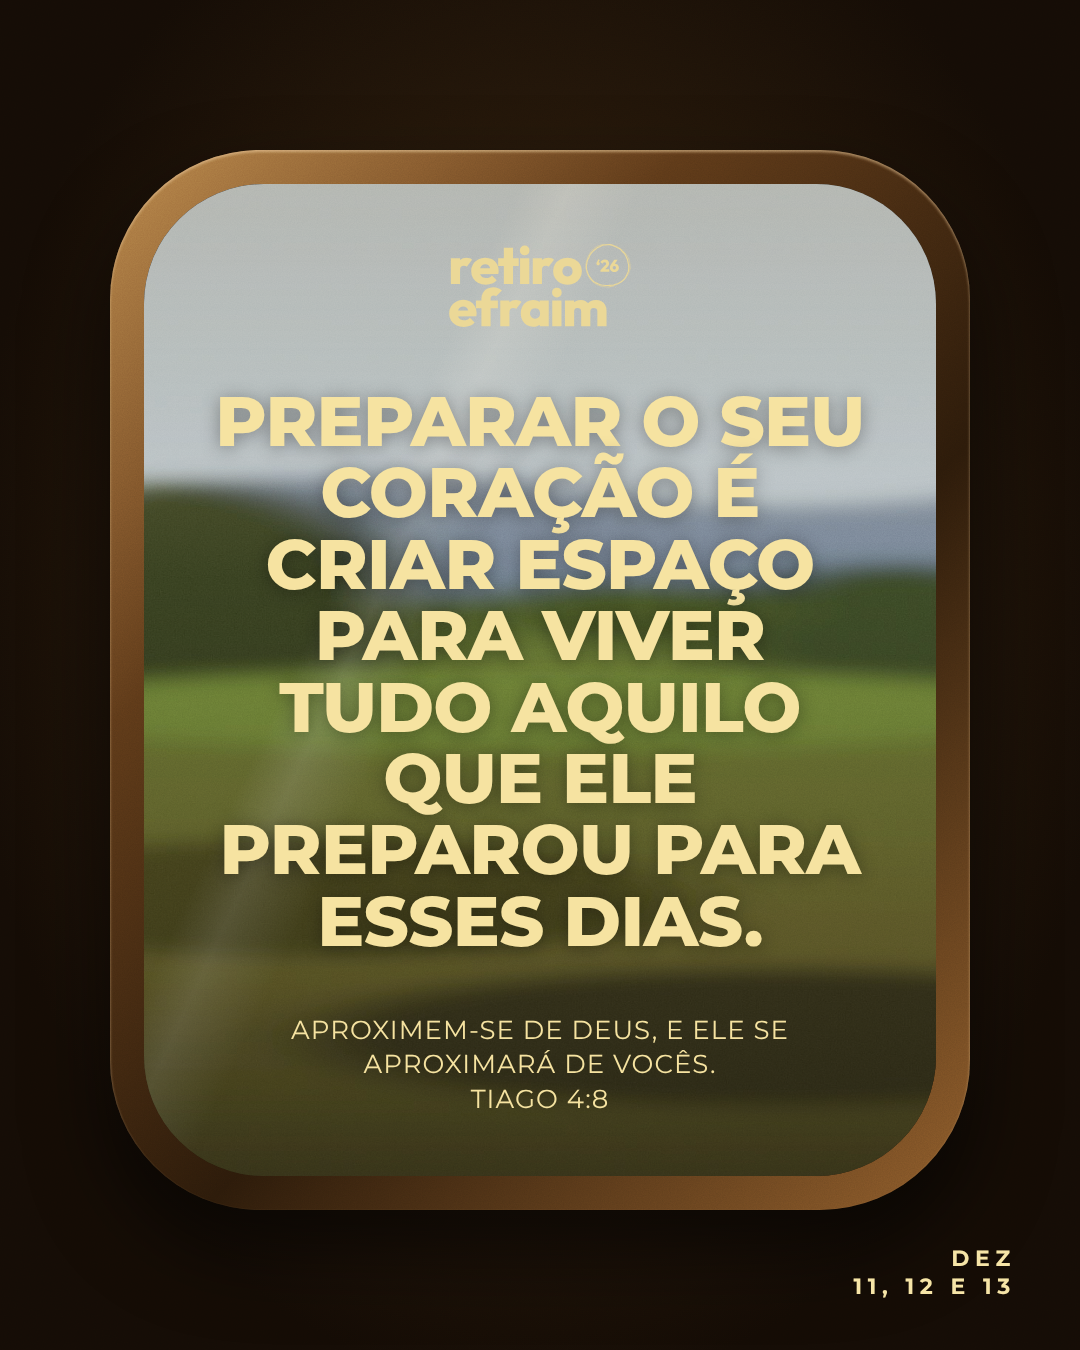
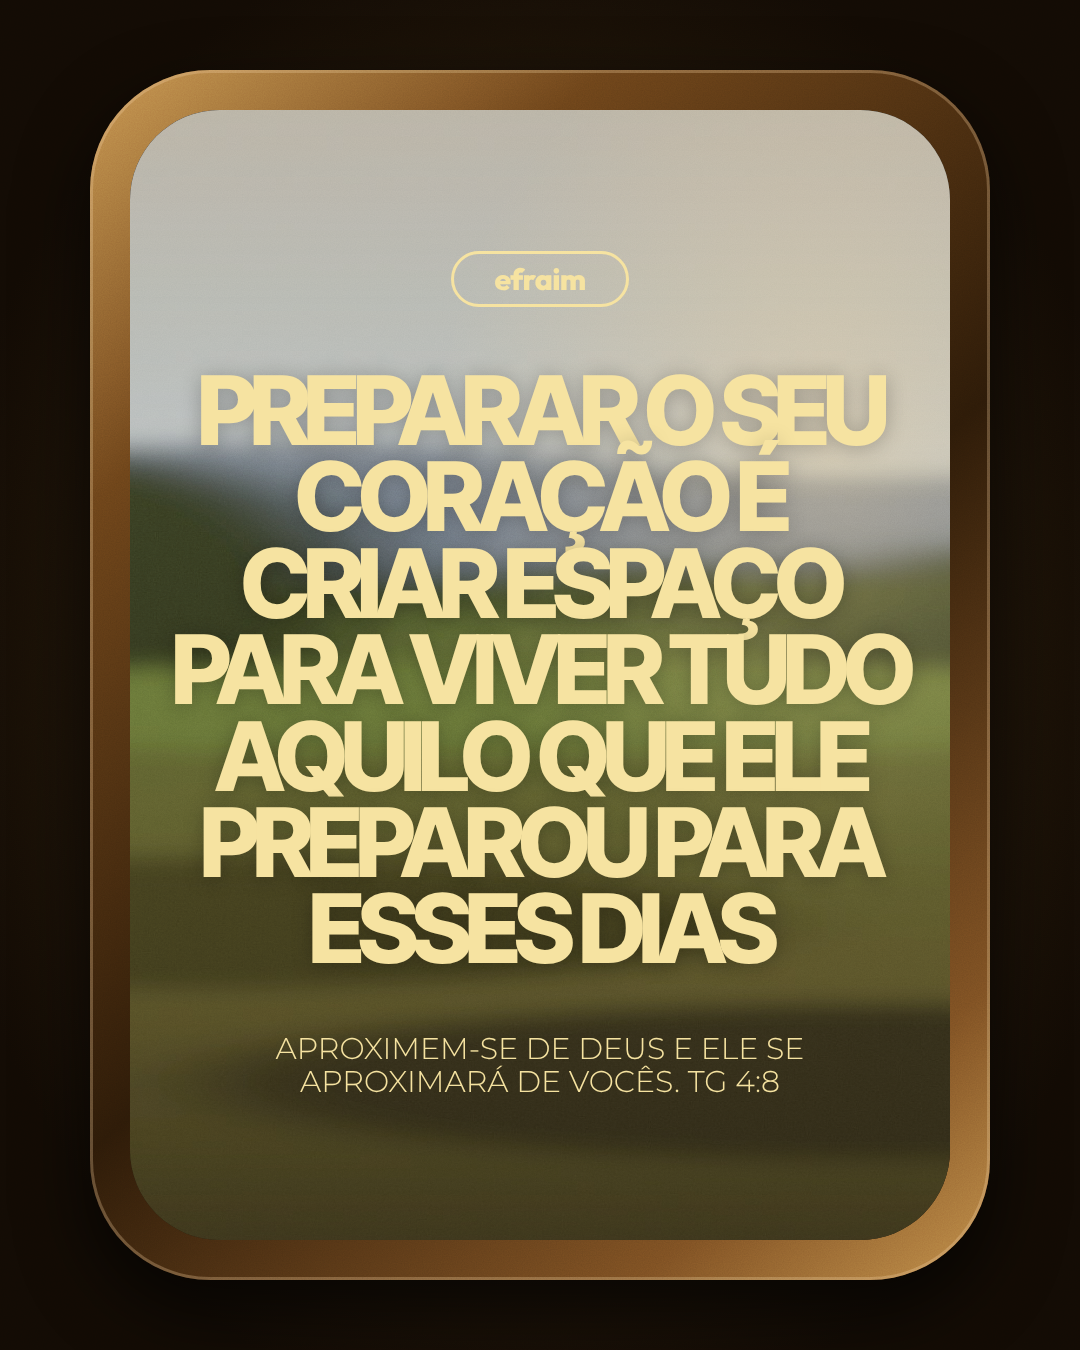
Refaz slides 2-5 do carrossel no estilo da referência com as cores do Efraim
Claude-Session: https://claude.ai/code/session_01LeUD47ZwT7dCEC6s1yGkTC

diff --git a/retiro-efraim/artes/carrossel-faltam-poucos-dias/02-preparar-o-coracao.html b/retiro-efraim/artes/carrossel-faltam-poucos-dias/02-preparar-o-coracao.html
@@ -1,35 +1,50 @@
-<!doctype html><meta charset="utf-8"><link rel="stylesheet" href="carrossel.css">
+<!doctype html><meta charset="utf-8"><link rel="stylesheet" href="estilo-cnct.css">
 <style>
-.cel{position:absolute;left:96px;top:250px;width:440px;height:880px;border-radius:64px;background:#0E140A;box-shadow:0 0 0 10px #2A2E26,0 0 0 12px #55594F,0 40px 70px rgba(0,0,0,.45);transform:rotate(-4deg);color:#EDE6D2;padding:30px 30px}
-.cel .ilha{position:absolute;top:18px;left:50%;width:130px;height:34px;border-radius:20px;background:#000;transform:translateX(-50%)}
-.cel .st{display:flex;justify-content:space-between;font:600 18px var(--f-titulo);padding:8px 14px 0}
-.cel .tit{text-align:center;margin-top:52px;font:500 18px/1.35 var(--f-titulo);color:#A9AE9C}
-.cel .tit b{display:block;color:#EDE6D2;font-weight:700}
-.letra{margin-top:30px;background:var(--folha);border-radius:18px;padding:26px 26px 22px;display:grid;gap:18px;box-shadow:0 10px 20px rgba(0,0,0,.3)}
-.letra .q{font:800 30px/1.18 var(--f-titulo);color:var(--manteiga)}
-.letra small{font:600 15px/1 var(--f-titulo);letter-spacing:.2em;text-transform:uppercase;color:#C9D3A8}
-.barra{margin:40px 8px 0;height:4px;border-radius:2px;background:#3A3F33;position:relative}.barra::before{content:"";position:absolute;inset:0 62% 0 0;background:#EDE6D2;border-radius:2px}.barra::after{content:"";position:absolute;left:38%;top:-5px;width:14px;height:14px;border-radius:50%;background:#EDE6D2}
-.ctrl{display:flex;justify-content:center;align-items:center;gap:46px;margin-top:40px}
-.ctrl svg{fill:#EDE6D2}
+.fundo{position:absolute;inset:0;background:radial-gradient(circle at 72% 30%,#5C8A26 0%,#2F6413 38%,#1D430B 75%,#15320A 100%)}
+.cel{position:absolute;left:82px;top:195px;width:465px;height:990px;border-radius:84px;background:#0B0D09;box-shadow:inset 0 0 0 4px #2B2E28,0 0 0 3px #45483F,0 30px 60px rgba(0,0,0,.45);padding:44px 52px;color:#EEE8D8;font-family:var(--f-titulo)}
+.cel .ilha{position:absolute;top:22px;left:50%;width:200px;height:52px;border-radius:0 0 28px 28px;background:#000;transform:translateX(-50%)}
+.st{display:flex;justify-content:space-between;align-items:center;font:600 22px var(--f-titulo);margin-top:30px}
+.st i{display:inline-block;width:40px;height:18px;border-radius:5px;background:#EEE8D8}
+.topo{text-align:center;margin-top:62px;font:400 20px/1.3 var(--f-titulo);color:#9A9C92}
+.topo b{display:block;font-weight:700;color:#C9C7BC;text-transform:uppercase;font-size:18px;letter-spacing:.06em}
+.capa{margin-top:40px;border-radius:12px;overflow:hidden;position:relative;height:340px;background:#1F360C url(../../fundos/pasto-feed.jpg) center/cover}
+.capa::after{content:"";position:absolute;inset:0;background:linear-gradient(transparent 40%,rgba(0,0,0,.55))}
+.capa img{position:absolute;left:34px;top:40px;width:260px;z-index:1}
+.capa span{position:absolute;left:34px;bottom:30px;z-index:1;font:700 18px/1 var(--f-titulo);letter-spacing:.24em;text-transform:uppercase;color:var(--manteiga)}
+.faixa{margin-top:52px;display:grid;grid-template-columns:30px 1fr 30px;align-items:center;text-align:center}
+.faixa b{font:600 26px/1.2 var(--f-titulo)} .faixa small{display:block;font:400 18px/1.3 var(--f-titulo);color:#9A9C92;text-transform:uppercase}
+.barra{margin-top:38px;height:3px;background:#3A3D35;position:relative}.barra::before{content:"";position:absolute;left:0;top:0;bottom:0;width:38%;background:#EEE8D8}.barra::after{content:"";position:absolute;left:38%;top:-5px;width:13px;height:13px;border-radius:50%;background:#EEE8D8}
+.ctrl{display:flex;justify-content:space-between;align-items:center;margin-top:38px;padding:0 6px}
+.ctrl svg{fill:#EEE8D8;stroke:#EEE8D8}
 </style>
-<div class="arte">
-  <div class="fundo-papel"></div>
-  <div class="canto esq"><img src="../../logo/retiro-efraim-sem-tagline-verde.svg" alt=""></div><div class="canto dir escuro">Dez<br>11, 12 e 13</div>
+<div class="arte grao">
+  <div class="fundo"></div>
+  <div class="cnt" style="left:72px;top:60px">Retiro<br>Efraim</div>
+  <div class="cnt" style="right:72px;top:60px;text-align:right"><b>Dez</b><br><b>11, 12 e 13</b></div>
   <div class="cel">
     <div class="ilha"></div>
-    <div class="st"><span>9:41</span><span>●●● ▮</span></div>
-    <div class="tit">Tocando agora<b>Playlist Retiro Efraim ’26</b></div>
-    <div class="letra"><small>Salmo 23</small><span class="q">O Senhor é o meu pastor; nada me faltará. Ele me faz repousar em pastos verdejantes.</span></div>
+    <div class="st"><span>10:28</span><i></i></div>
+    <div class="topo"><b>Tocando da playlist</b>Retiro Efraim ’26</div>
+    <div class="capa"><img src="../../logo/retiro-efraim-completo-creme.svg" alt=""><span>Playlist</span></div>
+    <div class="faixa"><svg width="26" height="26" viewBox="0 0 24 24" fill="none" stroke="#EEE8D8" stroke-width="2"><path d="M5 12l5 5 9-10"/></svg><div><b>Retiro Efraim ’26</b><small>Casa de Oração Efraim</small></div><span style="font-size:28px;letter-spacing:2px">···</span></div>
     <div class="barra"></div>
     <div class="ctrl">
-      <svg width="34" height="34" viewBox="0 0 24 24"><path d="M6 5h2v14H6zM20 5v14L9 12z"/></svg>
-      <svg width="96" height="96" viewBox="0 0 48 48"><circle cx="24" cy="24" r="22" fill="none" stroke="#EDE6D2" stroke-width="3"/><rect x="17" y="15" width="4.5" height="18" rx="1"/><rect x="26.5" y="15" width="4.5" height="18" rx="1"/></svg>
-      <svg width="34" height="34" viewBox="0 0 24 24"><path d="M16 5h2v14h-2zM4 5v14l11-7z"/></svg>
+      <svg width="34" height="34" viewBox="0 0 24 24" fill="none" stroke-width="2"><path d="M3 7h4l10 10h4M3 17h4l10-10h4M18 4l3 3-3 3M18 14l3 3-3 3"/></svg>
+      <svg width="40" height="40" viewBox="0 0 24 24" stroke="none"><path d="M5 4h2.5v16H5zM20 4v16L8.5 12z"/></svg>
+      <svg width="104" height="104" viewBox="0 0 48 48"><circle cx="24" cy="24" r="22" fill="none" stroke-width="2.6"/><rect x="16.5" y="14" width="5" height="20" rx="1" stroke="none"/><rect x="26.5" y="14" width="5" height="20" rx="1" stroke="none"/></svg>
+      <svg width="40" height="40" viewBox="0 0 24 24" stroke="none"><path d="M16.5 4H19v16h-2.5zM4 4v16l11.5-8z"/></svg>
+      <svg width="34" height="34" viewBox="0 0 24 24" fill="none" stroke-width="2"><path d="M4 11V8a2 2 0 0 1 2-2h13l-3-3M20 13v3a2 2 0 0 1-2 2H5l3 3"/></svg>
     </div>
   </div>
-  <div class="abs" style="left:590px;top:400px;width:430px;display:grid;gap:40px">
-    <p class="h escuro" style="--s:64px">É hora de preparar o coração pra tudo o que vamos viver.</p>
-    <div class="fio"></div>
+  <div class="abs" style="left:600px;top:415px;width:440px;display:grid;gap:44px;justify-items:start">
+    <p class="tt" style="--s:76px">É hora de<br>preparar<br>o coração<br>pra tudo o<br>que vamos<br>viver.</p>
+    <span class="pilula">efraim</span>
   </div>
-  <img class="patch" src="../../elementos/patch-nuvem-2026.svg" alt="" style="width:290px;right:70px;top:1010px;transform:rotate(9deg)">
+  <svg class="abs" style="left:640px;top:1010px;width:470px" viewBox="0 0 440 300">
+    <defs><linearGradient id="fone" x1="0" y1="0" x2="1" y2="1"><stop offset="0" stop-color="#FFFFFF"/><stop offset=".55" stop-color="#E9E8E3"/><stop offset="1" stop-color="#A9AAA3"/></linearGradient>
+    <radialGradient id="cab" cx=".35" cy=".3" r=".8"><stop offset="0" stop-color="#FFFFFF"/><stop offset=".6" stop-color="#ECEBE6"/><stop offset="1" stop-color="#B2B3AC"/></radialGradient>
+    <filter id="sh"><feDropShadow dx="0" dy="14" stdDeviation="12" flood-color="#000" flood-opacity=".35"/></filter></defs>
+    <g filter="url(#sh)" transform="rotate(-24 120 120)"><rect x="96" y="120" width="44" height="210" rx="22" fill="url(#fone)"/><ellipse cx="120" cy="110" rx="62" ry="70" fill="url(#cab)"/><ellipse cx="100" cy="100" rx="14" ry="9" fill="#2A2B27" transform="rotate(-20 100 100)"/></g>
+    <g filter="url(#sh)" transform="rotate(28 360 60)"><rect x="346" y="40" width="40" height="230" rx="20" fill="url(#fone)"/><ellipse cx="366" cy="34" rx="56" ry="62" fill="url(#cab)"/></g>
+  </svg>
 </div>

diff --git a/retiro-efraim/artes/carrossel-faltam-poucos-dias/04-o-que-tem-alimentado.html b/retiro-efraim/artes/carrossel-faltam-poucos-dias/04-o-que-tem-alimentado.html
@@ -1,17 +1,56 @@
-<!doctype html><meta charset="utf-8"><link rel="stylesheet" href="carrossel.css">
-<style>.etq{position:absolute;padding:26px 40px;font:800 50px/1 var(--f-titulo);text-transform:uppercase;box-shadow:0 18px 30px rgba(0,0,0,.35)}</style>
+<!doctype html><meta charset="utf-8"><link rel="stylesheet" href="estilo-cnct.css">
+<style>
+.bokeh{position:absolute;inset:-80px;filter:blur(70px);background:
+ radial-gradient(circle at 15% 10%,#C29B27 0 9%,transparent 18%),radial-gradient(circle at 55% 5%,#F6E3A1 0 7%,transparent 15%),
+ radial-gradient(circle at 85% 18%,#7D9230 0 10%,transparent 20%),radial-gradient(circle at 10% 45%,#8E5A1A 0 12%,transparent 24%),
+ radial-gradient(circle at 25% 85%,#5E7F25 0 12%,transparent 22%),radial-gradient(circle at 45% 92%,#A3BFD9 0 8%,transparent 16%),
+ radial-gradient(circle at 70% 80%,#7D9230 0 10%,transparent 20%),radial-gradient(circle at 95% 70%,#C29B27 0 8%,transparent 16%),
+ linear-gradient(160deg,#4B4A22,#2E3D14 50%,#3D3016)}
+.bal{position:absolute;padding:12px 34px 16px;background:var(--folha);color:#F3E6D0;border-radius:30px;font:400 40px/1.1 var(--f-titulo)}
+.bal{border-bottom-right-radius:6px;min-width:230px}
+.app{position:absolute;top:200px;height:900px;border-radius:44px;overflow:hidden;box-shadow:0 20px 50px rgba(0,0,0,.45)}
+.rot{position:absolute;top:140px;font:400 30px/1 var(--f-titulo);color:#EDE6D2;display:flex;align-items:center;gap:14px}
+.rot i{width:44px;height:44px;border-radius:11px;display:grid;place-items:center;font-style:normal;font-size:22px}
+</style>
 <div class="arte grao">
-  <img class="bg" src="../../fundos/paisagem-feed.jpg" alt="">
-  <div class="canto esq"><img src="../../logo/retiro-efraim-sem-tagline-verde.svg" alt=""></div><div class="canto dir escuro">Dez<br>11, 12 e 13</div>
-  <div class="papel" style="left:80px;top:230px;width:600px;height:930px">
-    <div class="abs" style="left:60px;right:110px;top:90px;display:grid;gap:40px">
-      <p class="h escuro" style="--s:72px">O que tem alimentado o seu coração?</p>
-      <div class="fio"></div>
-      <p class="corpo escuro" style="font-size:28px">Tudo isso também entra no seu coração.<br><br>Escolha com cuidado o que vai ocupar esse espaço.</p>
-    </div>
-    <img class="cordeiro" src="../../elementos/cordeiro-no-papel.png" alt="" style="width:230px;right:60px;bottom:0;-webkit-mask-image:linear-gradient(90deg,transparent,#000 22%,#000 78%,transparent),linear-gradient(transparent,#000 25%);-webkit-mask-composite:source-in">
+  <div class="bokeh"></div>
+  <div class="rot" style="left:560px;top:150px"><i style="background:#8E1210;color:#F3E6D0">▶</i></div>
+  <div class="rot" style="left:650px"><i style="background:var(--folha);color:#F3E6D0">♪</i>Música</div>
+  <div class="rot" style="left:850px"><i style="background:var(--manteiga);color:var(--pasto)">◎</i>Redes</div>
+  <!-- cartão 1: vídeos -->
+  <div class="app" style="left:530px;width:380px;background:#F3EFE6">
+    <div style="height:260px;background:linear-gradient(135deg,#8E1210,#C29B27)"></div>
+    <div style="padding:24px;display:grid;gap:14px"><i style="height:16px;width:80%;background:#CFC8B8;border-radius:8px"></i><i style="height:16px;width:55%;background:#CFC8B8;border-radius:8px"></i></div>
   </div>
-  <div class="etq" style="left:690px;top:330px;padding-right:90px;background:var(--folha);color:var(--papel);transform:rotate(4deg);box-shadow:0 0 0 10px var(--papel),0 18px 30px rgba(0,0,0,.35)">Música.<img src="../../elementos/clipe-dourado.svg" alt="" style="position:absolute;width:40px;top:-34px;right:30px"></div>
-  <div class="etq" style="left:730px;top:520px;background:var(--papel);color:var(--pasto);transform:rotate(-3deg)">Vídeos.</div>
-  <div class="etq" style="left:670px;top:700px;background:var(--bordado);color:var(--papel);transform:rotate(3deg);box-shadow:0 0 0 10px var(--papel),0 18px 30px rgba(0,0,0,.35)">Conteúdo.</div>
+  <!-- cartão 2: música -->
+  <div class="app" style="left:610px;width:400px;background:#1C2A14;color:#EDE6D2;font-family:var(--f-titulo)">
+    <div style="padding:70px 30px 0;font:600 18px/1.3 var(--f-titulo);text-align:center;color:#B9BDA8">“Retiro Efraim ’26”</div>
+    <div style="margin:30px;height:300px;border-radius:10px;background:#1F360C url(../../fundos/pasto-feed.jpg) center/cover;position:relative"><img src="../../logo/retiro-efraim-sem-tagline-creme.svg" alt="" style="position:absolute;left:24px;top:24px;width:180px"></div>
+    <div style="padding:0 30px;font:700 28px/1.2 var(--f-titulo)">Retiro Efraim ’26<br><span style="font-weight:400;font-size:20px;color:#B9BDA8">Playlist · Casa de Oração Efraim</span></div>
+    <div style="margin:30px;height:3px;background:#3A4630;position:relative"><i style="position:absolute;left:0;top:0;bottom:0;width:20%;background:#EDE6D2"></i></div>
+    <div style="margin:0 30px;height:64px;border-radius:12px;background:var(--folha);display:flex;align-items:center;padding:0 20px;font:700 20px var(--f-titulo)">Prévia da playlist</div>
+  </div>
+  <!-- cartão 3: redes -->
+  <div class="app" style="left:820px;width:420px;background:#FBF8F1;color:#16240A;font-family:var(--f-titulo)">
+    <div style="padding:60px 30px 0;font:700 26px/1 var(--f-titulo)">Retiro Efraim</div>
+    <div style="display:flex;gap:24px;align-items:center;padding:30px">
+      <div style="width:110px;height:110px;border-radius:50%;background:var(--pasto);display:grid;place-items:center"><img src="../../elementos/casa-de-oracao-efraim.png" alt="" style="width:62px"></div>
+      <div style="font:700 22px/1.3 var(--f-titulo)">Casa de Oração<br>Efraim</div>
+    </div>
+    <div style="padding:0 30px;font:400 18px/1.5 var(--f-titulo)">• Retiro da Casa de Oração Efraim<br>• 11, 12 e 13 de dezembro</div>
+    <div style="display:grid;grid-template-columns:repeat(3,1fr);gap:4px;margin-top:40px">
+      <i style="height:130px;background:url(../../fundos/pasto-feed.jpg) center/cover"></i><i style="height:130px;background:var(--folha)"></i><i style="height:130px;background:var(--papel)"></i>
+      <i style="height:130px;background:var(--bordado)"></i><i style="height:130px;background:url(../../fundos/paisagem-feed.jpg) center/cover"></i><i style="height:130px;background:var(--manteiga)"></i>
+    </div>
+  </div>
+  <div class="abs" style="left:64px;top:228px;display:grid;gap:30px;justify-items:start;width:620px;z-index:2">
+    <span class="pilula">efraim</span>
+    <p class="tt" style="--s:96px">O que tem<br>alimentado<br>o seu<br>coração?</p>
+  </div>
+  <div class="bal" style="left:64px;top:700px;z-index:2">Música.</div>
+  <div class="bal" style="left:64px;top:790px;z-index:2">Vídeo.</div>
+  <div class="bal" style="left:320px;top:750px;z-index:2">Conteúdo.</div>
+  <p class="leve abs" style="left:66px;top:900px;width:470px;font-size:32px;z-index:2">Tudo isso também entra no seu coração.<br><br>Escolha com cuidado o que vai ocupar esse espaço.</p>
+  <div class="cnt" style="left:60px;bottom:40px;font-size:28px">Retiro<br>Efraim</div>
+  <div class="cnt" style="right:60px;bottom:40px;text-align:right;font-size:28px"><b>Dez</b><br><b>11, 12 e 13</b></div>
 </div>

diff --git a/retiro-efraim/artes/carrossel-faltam-poucos-dias/05-criar-espaco.html b/retiro-efraim/artes/carrossel-faltam-poucos-dias/05-criar-espaco.html
@@ -1,21 +1,20 @@
-<!doctype html><meta charset="utf-8"><link rel="stylesheet" href="carrossel.css">
+<!doctype html><meta charset="utf-8"><link rel="stylesheet" href="estilo-cnct.css">
 <style>
-.parede{position:absolute;inset:0;background:radial-gradient(ellipse at 50% 45%,#3A2611,#140C05 75%)}
-.janela{position:absolute;left:110px;top:150px;width:860px;height:1060px;border-radius:150px;padding:34px;background:linear-gradient(135deg,#B9844A,#5B3818 30%,#2B1A0A 60%,#8A5A2A);box-shadow:0 40px 80px rgba(0,0,0,.6),inset 0 2px 3px rgba(255,220,170,.5)}
-.vidro{position:relative;width:100%;height:100%;border-radius:120px;overflow:hidden;box-shadow:inset 0 0 0 6px #1E1207,inset 0 20px 60px rgba(0,0,0,.55)}
-.vidro img{width:100%;height:100%;object-fit:cover;filter:saturate(1.1) sepia(.18) brightness(.92)}
-.vidro::before{content:"";position:absolute;inset:0;background:linear-gradient(180deg,rgba(255,214,150,.28),transparent 40%,rgba(0,0,0,.35)),linear-gradient(115deg,transparent 30%,rgba(255,255,255,.14) 34%,transparent 40%);z-index:1}
-.vidro .txt{position:absolute;inset:0;z-index:2;display:grid;align-content:center;justify-items:center;gap:56px;padding:0 70px;text-align:center}
+.parede{position:absolute;inset:0;background:radial-gradient(ellipse at 50% 50%,#3B2A12,#120B04 80%)}
+.janela{position:absolute;left:90px;top:70px;width:900px;height:1210px;border-radius:120px;padding:40px;background:linear-gradient(140deg,#C89350,#6A4219 22%,#2C1A08 55%,#7A4E22 85%,#C08A48);box-shadow:0 30px 70px rgba(0,0,0,.7),inset 0 0 0 3px rgba(255,220,170,.25)}
+.vidro{position:relative;width:100%;height:100%;border-radius:90px;overflow:hidden;box-shadow:inset 0 0 0 5px #1A0F05,inset 0 24px 60px rgba(0,0,0,.6)}
+.vidro img{width:100%;height:100%;object-fit:cover;filter:saturate(1.05) sepia(.25) brightness(.9);transform:scaleX(1.25)}
+.vidro::before{content:"";position:absolute;inset:0;z-index:1;background:linear-gradient(180deg,rgba(255,206,140,.32),transparent 35%,rgba(20,12,4,.35)),radial-gradient(ellipse at 85% 30%,rgba(255,220,160,.35),transparent 40%)}
+.txt{position:absolute;inset:0;z-index:2;display:grid;align-content:center;justify-items:center;gap:60px;text-align:center;padding:0 40px}
 </style>
 <div class="arte grao">
   <div class="parede"></div>
   <div class="janela"><div class="vidro">
     <img src="../../fundos/paisagem-feed.jpg" alt="">
     <div class="txt">
-      <img src="../../logo/retiro-efraim-sem-tagline-creme.svg" alt="" style="width:190px;height:auto">
-      <p class="h claro" style="--s:70px;text-shadow:0 2px 18px rgba(0,0,0,.35)">Preparar o seu coração é criar espaço para viver tudo aquilo que Ele preparou para esses dias.</p>
-      <p class="corpo claro" style="font-size:26px">Aproximem-se de Deus, e ele se aproximará de vocês.<br>Tiago 4:8</p>
+      <span class="pilula">efraim</span>
+      <p class="tt" style="--s:96px;text-shadow:0 2px 20px rgba(0,0,0,.25)">Preparar o seu coração é criar espaço para viver tudo aquilo que Ele preparou para esses dias</p>
+      <p class="leve" style="font-size:30px">Aproximem-se de Deus e Ele se<br>aproximará de vocês. Tg 4:8</p>
     </div>
   </div></div>
-  <div class="canto dir claro" style="top:auto;bottom:50px;right:64px">Dez<br>11, 12 e 13</div>
 </div>

diff --git a/retiro-efraim/artes/carrossel-faltam-poucos-dias/03-ore.html b/retiro-efraim/artes/carrossel-faltam-poucos-dias/03-ore.html
@@ -1,10 +1,14 @@
-<!doctype html><meta charset="utf-8"><link rel="stylesheet" href="carrossel.css">
+<!doctype html><meta charset="utf-8"><link rel="stylesheet" href="estilo-cnct.css">
+<!-- Troque ../../fundos/pasto-feed.jpg por uma foto de adoração da igreja (ex.: ../../fundos/foto-adoracao.jpg) -->
 <div class="arte grao">
-  <img class="bg" src="../../fundos/pasto-feed.jpg" alt="" style="filter:brightness(.42) saturate(.75) hue-rotate(-8deg)">
-  <div class="abs" style="inset:0;background:radial-gradient(ellipse at 50% 40%,rgba(246,227,161,.12),transparent 60%),linear-gradient(transparent 55%,rgba(10,18,4,.7))"></div>
-  <div class="canto esq"><img src="../../logo/retiro-efraim-sem-tagline-creme.svg" alt=""></div><div class="canto dir claro">Dez<br>11, 12 e 13</div>
-  <div class="nota" style="left:50%;top:250px;transform:translateX(-50%) rotate(-3deg);font-size:40px;padding:44px 100px 30px 40px;white-space:nowrap">Semana de oração<img class="clipe" src="../../elementos/clipe-dourado.svg" alt="" style="width:46px;top:-36px;right:40px"></div>
-  <p class="h claro abs" style="--s:100px;left:80px;right:80px;top:470px;text-align:center">Ore pelo que ainda vai acontecer.</p>
-  <p class="corpo claro abs" style="left:110px;right:110px;top:1000px;text-align:center;opacity:.92">Separe um tempo esta semana para orar pelo retiro. Peça que Deus encontre cada pessoa que vai subir, cure corações e faça desses três dias um lugar de transformação.</p>
-  <img class="patch" src="../../elementos/patch-arco-ovelha.svg" alt="" style="width:150px;right:60px;bottom:50px;transform:rotate(8deg)">
+  <img class="bg" src="../../fundos/pasto-feed.jpg" alt="" style="filter:blur(3px) brightness(.55) saturate(.7)">
+  <div class="abs" style="inset:0;background:linear-gradient(180deg,rgba(14,30,6,.72),rgba(18,38,8,.55) 50%,rgba(10,22,4,.8));mix-blend-mode:multiply"></div>
+  <div class="abs" style="inset:0;background:rgba(31,54,12,.35)"></div>
+  <div class="abs" style="left:0;right:0;top:110px;display:grid;justify-items:center;gap:40px">
+    <span class="pilula">efraim</span>
+    <p class="tt" style="--s:104px;text-align:center">Ore pelo<br>o que<br>ainda vai<br>acontecer.</p>
+  </div>
+  <div class="cnt" style="left:150px;top:290px;font-size:28px">Retiro<br>Efraim</div>
+  <div class="cnt" style="right:110px;top:290px;text-align:right;font-size:28px"><b>Dez</b><br><b>11, 12 e 13</b></div>
+  <p class="leve abs" style="left:70px;right:70px;top:1060px;text-align:center;font-size:32px">Separe um tempo para estar na presença de Deus. Peça para que Ele tenha liberdade para agir, que vidas sejam tocadas, que corações sejam curados, e que o retiro seja um lugar de transformação.</p>
 </div>

diff --git a/retiro-efraim/artes/carrossel-faltam-poucos-dias/estilo-cnct.css b/retiro-efraim/artes/carrossel-faltam-poucos-dias/estilo-cnct.css
@@ -1,0 +1,9 @@
+@import url("https://fonts.googleapis.com/css2?family=Inter+Tight:wght@700;800&family=Montserrat:wght@300;400;700&family=Outfit:wght@800&display=swap");
+@import url("../efraim.css");
+/* Estilo da referência: título ultra-apertado em caixa-alta, cantos finos, pílula com a marca. */
+.tt { margin: 0; font: 800 var(--s, 96px)/0.9 "Inter Tight", "Arial Black", sans-serif; letter-spacing: -0.075em; text-transform: uppercase; color: var(--manteiga) }
+.cnt { position: absolute; font: 300 34px/1.12 var(--f-titulo); text-transform: uppercase; color: var(--manteiga); opacity: .85 }
+.cnt b { font-weight: 700; letter-spacing: .02em }
+.pilula { display: inline-flex; align-items: center; justify-content: center; height: 56px; padding: 0 40px; border: 3px solid var(--manteiga); border-radius: 40px;
+  font: 800 30px/1 "Outfit", sans-serif; letter-spacing: -0.02em; color: var(--manteiga); text-transform: lowercase }
+.leve { margin: 0; font: 300 36px/1.12 var(--f-titulo); text-transform: uppercase; color: var(--manteiga) }

diff --git a/retiro-efraim/README.md b/retiro-efraim/README.md
@@ -45,12 +45,13 @@ Depois de editar um HTML em `artes/`, abra no navegador e exporte o quadro `.art
 
 ## Carrossel "Faltam poucos dias"
 
-`artes/carrossel-faltam-poucos-dias/` — 5 slides 1080×1350 (HTML editável + `png/`):
+`artes/carrossel-faltam-poucos-dias/` — 5 slides 1080×1350 (HTML editável + `png/`).
+O slide 1 é a arte de papel do Efraim; os slides 2 a 5 seguem o estilo da referência enviada
+(títulos ultra-apertados em Inter Tight, cantos "RETIRO EFRAIM / DEZ 11, 12 E 13", pílula "efraim"),
+com as cores da identidade. Estilo em `estilo-cnct.css`.
 
 1. Faltam poucos dias / O que fazer antes do retiro?
-2. É hora de preparar o coração (celular tocando a playlist do retiro, Salmo 23)
-3. Ore pelo que ainda vai acontecer (semana de oração)
-4. O que tem alimentado o seu coração? (música, vídeos, conteúdo)
-5. Preparar o coração é criar espaço (janela com a paisagem, Tiago 4:8)
-
-Legenda sugerida: "FALTAM POUCOS DIAS! Arrasta pro lado e vem preparar o coração com a gente. 11, 12 e 13 de dezembro."
+2. É hora de preparar o coração (celular tocando a Playlist Retiro Efraim '26)
+3. Ore pelo que ainda vai acontecer (troque o fundo por uma foto de adoração da igreja)
+4. O que tem alimentado o seu coração? (música, vídeo, conteúdo + telas de apps)
+5. Preparar o seu coração é criar espaço (janela com a paisagem, Tiago 4:8)
